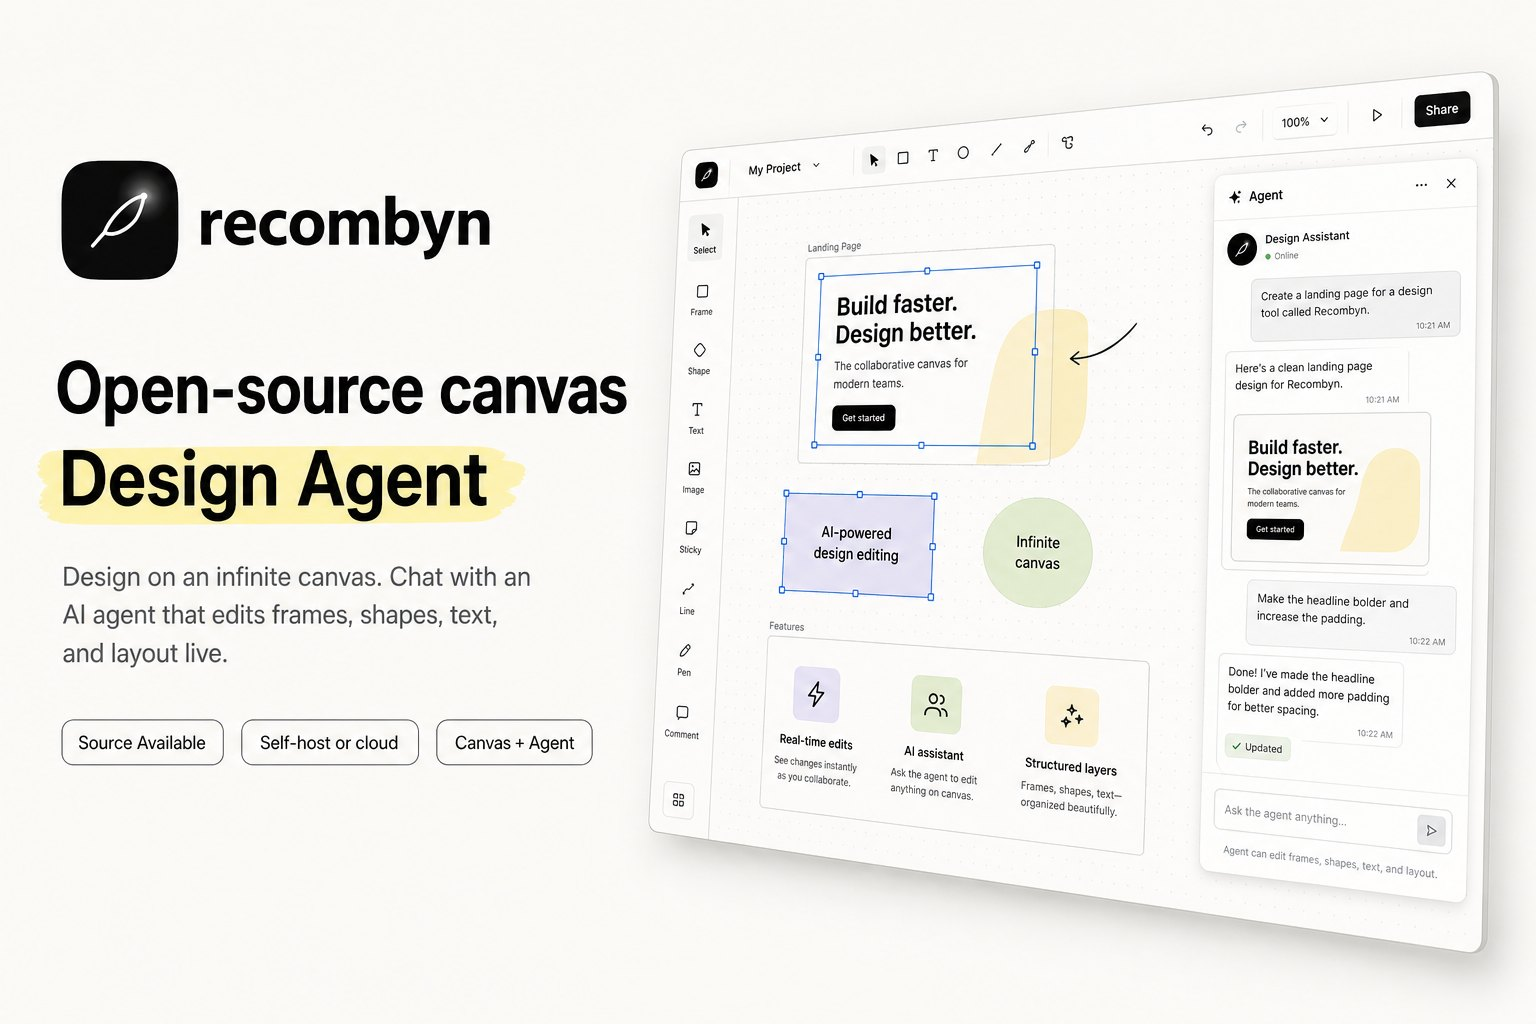
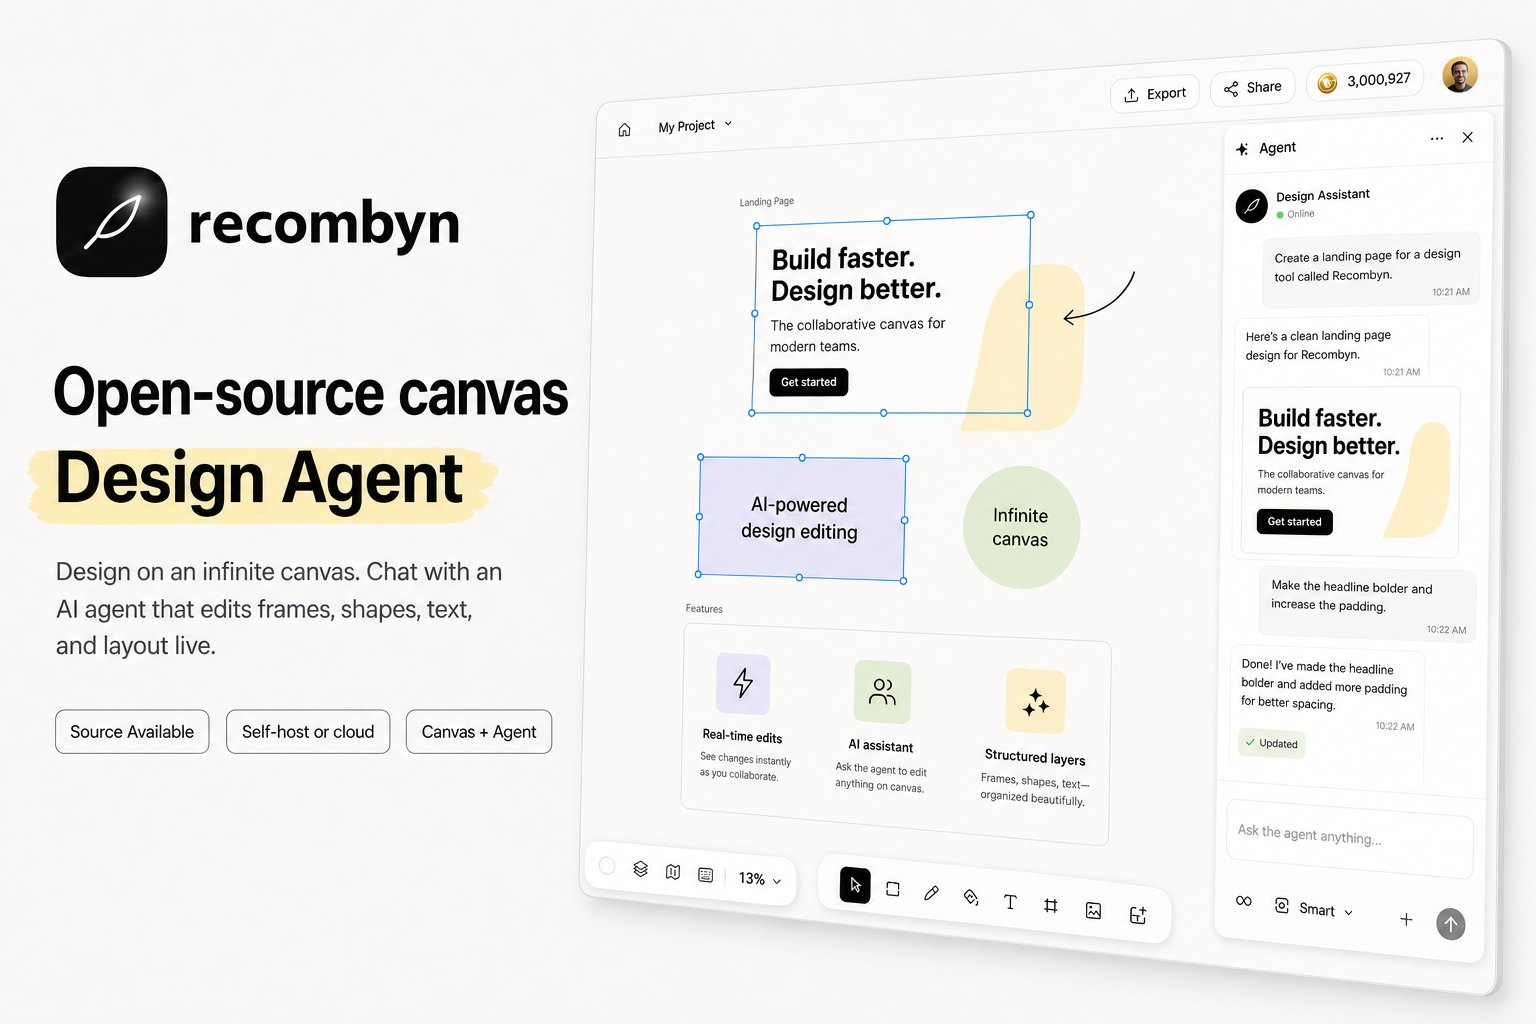
Refine README hero chrome and add EN/zh/ja language pills.
Match product zoom/agent composer details in the hero, and place visible gray language switches under the badges with a Japanese README.

diff --git a/README.ja.md b/README.ja.md
@@ -1,0 +1,114 @@
+<p align="center">
+  <img src="docs/assets/readme-hero.jpg" alt="recombyn — オープンソースのキャンバス + AI Design Agent" width="920" />
+</p>
+
+<p align="center">
+  <a href="docs/self-hosting.md"><strong>Self Host</strong></a> ·
+  <a href="https://recombyn.com"><strong>Cloud</strong></a> ·
+  <a href="apps/docs"><strong>Docs</strong></a>
+</p>
+
+<p align="center">
+  <a href="LICENSE"><img src="https://img.shields.io/badge/license-Source--Available-orange.svg" alt="Recombyn Source Available License" /></a>
+  <a href="docs/self-hosting.md"><img src="https://img.shields.io/badge/self--host-Docker%20Compose-2496ED?logo=docker&logoColor=white" alt="Self-host" /></a>
+  <a href="apps/web"><img src="https://img.shields.io/badge/web-React%20%2B%20TypeScript-3178C6?logo=typescript&logoColor=white" alt="TypeScript" /></a>
+  <a href="apps/api"><img src="https://img.shields.io/badge/api-FastAPI%20%2B%20Python-3776AB?logo=python&logoColor=white" alt="Python" /></a>
+  <a href="SECURITY.md"><img src="https://img.shields.io/badge/security-policy-green.svg" alt="Security" /></a>
+</p>
+
+<p align="center">
+  <a href="README.md"><img src="docs/assets/lang-en.png" alt="English" height="28" /></a>
+  &nbsp;
+  <a href="README.zh-CN.md"><img src="docs/assets/lang-zh-CN.png" alt="简体中文" height="28" /></a>
+  &nbsp;
+  <a href="README.ja.md"><img src="docs/assets/lang-ja.png" alt="日本語" height="28" /></a>
+</p>
+
+**Recombyn** は **キャンバスエディタ + AI Design Agent**（ソースアベイラブル）です。  
+無限キャンバス上でデザインし、LangGraph エージェントが会話を通じてレイヤー・図形・テキスト・レイアウトを編集します。
+
+Docker Compose で数分でセルフホストできます（既定は **MySQL** + Redis + Web + API + **Yjs コラボ**）。ローカル開発では空の `DATABASE_URL` で **SQLite**、または **PostgreSQL** — [docs/postgres-switch.md](docs/postgres-switch.md) を参照。
+
+---
+
+## なぜ Recombyn？
+
+- **本格キャンバス編集** — フレーム、図形、画像、動画、テキスト。エクスポートと共有
+- **リアルタイム共同編集** — 同一プロジェクトを Yjs 同期（カーソル、選択、Undo）。閲覧のみ / 編集を共有可能
+- **描画する Agent** — 会話で計画し、キャンバス操作を適用
+- **セルフホスト優先** — ローカルもサーバーも同じスタック
+- **組み合わせ可能** — インフラ seed + プロンプトパック + `apps/api/data/public/` の **コア Agent skills**
+
+## 主な機能
+
+- **ビジュアルエディタ** — 選択、レイヤー、塗り、エクスポート、共有
+- **リアルタイムコラボ** — Yjs WebSocket（`apps/collab`）；エディタの Live バー；nginx `/collab/` 経由の WSS
+- **Design Agent** — LangGraph ツール / skills；作成・編集・ストリーミング UI
+- **画像インポート** — ローカル画像 → 編集可能なキャンバスノード
+- **Plaza & プロジェクト** — インスピレーションフィードと保存作品（API）
+
+## クイックスタート（セルフホスト）
+
+```bash
+git clone https://github.com/recombyn/recombyn.git
+cd recombyn
+cp apps/api/.env.example apps/api/.env   # LLM_API_KEY / プロバイダキーを設定
+docker compose up -d --build
+```
+
+| サービス | URL |
+|---------|-----|
+| Web | http://localhost:3000 |
+| API docs | http://localhost:8000/docs |
+| MySQL | `127.0.0.1:3306` · `recombyn` / `recombyn` |
+
+詳細（env、LLM、本番 hardening）: **[docs/self-hosting.md](docs/self-hosting.md)** · Postgres: **[docs/postgres-switch.md](docs/postgres-switch.md)**
+
+### ローカル開発
+
+```bash
+docker compose up -d redis   # または: mysql redis
+npm install
+cp apps/api/.env.example apps/api/.env
+npm run dev:api              # 空 DATABASE_URL → SQLite
+npm run dev:collab           # Yjs WS :1234（任意）
+npm run dev:web
+```
+
+Canvas Live / WSS: **[docs/self-hosting.md § Canvas multiplayer](docs/self-hosting.md#canvas-multiplayer-yjs--wss)** · [apps/collab/README.md](apps/collab/README.md)
+
+## リポジトリ構成
+
+```
+apps/web/          React キャンバス + Agent UI + Yjs クライアント
+apps/api/          FastAPI — Scene, Agent, plaza, wallet, collab tokens
+apps/collab/       Yjs WebSocket サーバー（y-websocket）
+apps/docs/         ヘルプ / 法務サイト
+packages/          共有ビルダー & スキーマ
+docs/              アーキテクチャ + セルフホスト
+deploy/            Dockerfile / Nginx
+e2e/               Playwright
+```
+
+## ドキュメント / コミュニティ
+
+- [セルフホスト](docs/self-hosting.md) · [PostgreSQL 切り替え](docs/postgres-switch.md) · [コントリビュート](CONTRIBUTING.md) · [セキュリティ](SECURITY.md) · [行動規範](CODE_OF_CONDUCT.md)
+- Issue / PR テンプレートは `.github/`
+
+## ライセンス
+
+[Recombyn Source Available License v1.0](./LICENSE) © Recombyn contributors · [NOTICE](./NOTICE)
+
+ソースアベイラブル条件（OSI オープンソースではありません）:
+
+- **個人 / プライベートセルフホスト** — 無料
+- **単一組織内利用** — 可
+- **第三者向けのホスト / マネージド提供**（有償・無償問わず）— **商用許諾が必要**（`702680355@qq.com`）
+
+全文は [LICENSE](./LICENSE) を参照。
+
+## GitHub で ⭐ Star を
+
+オープンソースは時間がかかります。Recombyn が役に立ったら、右上の **⭐ Star** をお願いします。
+
+→ [https://github.com/recombyn/recombyn](https://github.com/recombyn/recombyn)

diff --git a/README.zh-CN.md b/README.zh-CN.md
@@ -15,6 +15,14 @@
   <a href="apps/api"><img src="https://img.shields.io/badge/api-FastAPI%20%2B%20Python-3776AB?logo=python&logoColor=white" alt="Python" /></a>
 </p>
 
+<p align="center">
+  <a href="README.md"><img src="docs/assets/lang-en.png" alt="English" height="28" /></a>
+  &nbsp;
+  <a href="README.zh-CN.md"><img src="docs/assets/lang-zh-CN.png" alt="简体中文" height="28" /></a>
+  &nbsp;
+  <a href="README.ja.md"><img src="docs/assets/lang-ja.png" alt="日本語" height="28" /></a>
+</p>
+
 **Recombyn** 是 **画布编辑器 + AI Design Agent**（源码可得 / source-available）。  
 在无限画布上创作；Agent 基于 LangGraph 直接改图层、图形、文字与布局——用对话驱动设计。
 
@@ -102,11 +110,3 @@ e2e/               Playwright
 开源不易，如果觉得 Recombyn 对您的工作还有帮助，请帮忙在 GitHub 仓库右上角点个 ⭐ Star。您的支持是让 Recombyn 变得更好最大的动力。
 
 → [https://github.com/recombyn/recombyn](https://github.com/recombyn/recombyn)
-
----
-
-<p align="center">
-  <a href="README.md"><img src="https://img.shields.io/badge/English-e5e7eb?style=flat-square&labelColor=e5e7eb&color=e5e7eb" alt="English" /></a>
-  &nbsp;
-  <a href="README.zh-CN.md"><img src="https://img.shields.io/badge/%E7%AE%80%E4%BD%93%E4%B8%AD%E6%96%87-e5e7eb?style=flat-square&labelColor=e5e7eb&color=e5e7eb" alt="简体中文" /></a>
-</p>

diff --git a/README.md b/README.md
@@ -16,6 +16,14 @@
   <a href="SECURITY.md"><img src="https://img.shields.io/badge/security-policy-green.svg" alt="Security" /></a>
 </p>
 
+<p align="center">
+  <a href="README.md"><img src="docs/assets/lang-en.png" alt="English" height="28" /></a>
+  &nbsp;
+  <a href="README.zh-CN.md"><img src="docs/assets/lang-zh-CN.png" alt="简体中文" height="28" /></a>
+  &nbsp;
+  <a href="README.ja.md"><img src="docs/assets/lang-ja.png" alt="日本語" height="28" /></a>
+</p>
+
 **Recombyn** is a **canvas editor + AI Design Agent** (source-available).  
 Design on an infinite canvas; a LangGraph agent edits layers, shapes, text, and layout through conversation.
 
@@ -117,11 +125,3 @@ See [LICENSE](./LICENSE) for the full text.
 Open source takes time. If Recombyn helps your work, please hit **⭐ Star** in the top-right of the GitHub repo — your support is the best fuel for making it better.
 
 → [https://github.com/recombyn/recombyn](https://github.com/recombyn/recombyn)
-
----
-
-<p align="center">
-  <a href="README.md"><img src="https://img.shields.io/badge/English-e5e7eb?style=flat-square&labelColor=e5e7eb&color=e5e7eb" alt="English" /></a>
-  &nbsp;
-  <a href="README.zh-CN.md"><img src="https://img.shields.io/badge/%E7%AE%80%E4%BD%93%E4%B8%AD%E6%96%87-e5e7eb?style=flat-square&labelColor=e5e7eb&color=e5e7eb" alt="简体中文" /></a>
-</p>
